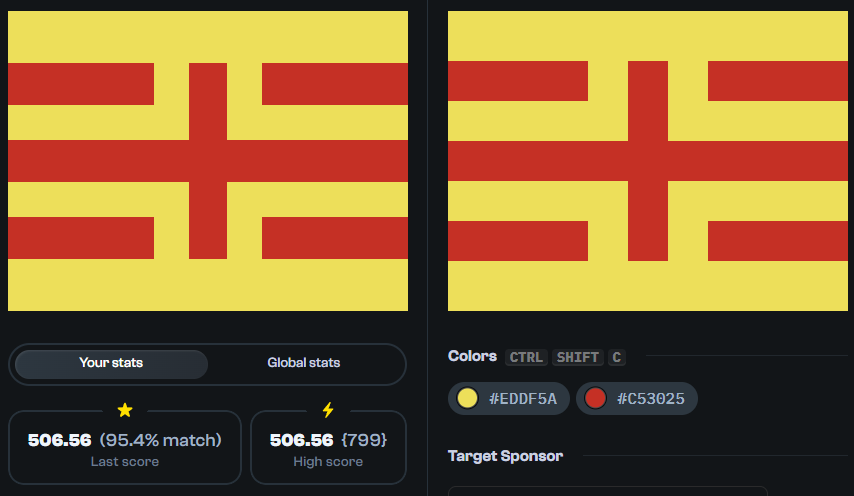
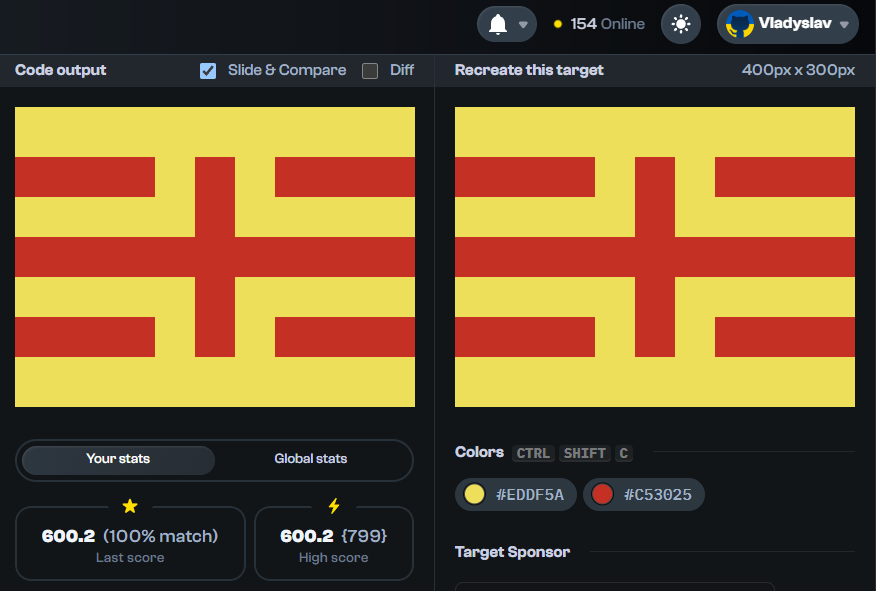
21.05 score 100%

diff --git a/daily-challenges/2025/21.05/styles.css b/daily-challenges/2025/21.05/styles.css
@@ -18,9 +18,9 @@
     width: 100%;
     height: 100%;
     background: #eddf5a;
-    grid-template-rows: 0.5fr 1.2fr 1.2fr 1.2fr 0.5fr;
-    grid-template-columns: 1fr 1fr 0.7fr 1fr 1fr;
-    gap: 35px;
+    grid-template-rows: 0.3fr 1.2fr 1.2fr 1.2fr 0.3fr;
+    grid-template-columns: 1fr 1fr 0.8fr 1fr 1fr;
+    gap: 40px;
 }
 
 .h1l {
@@ -60,5 +60,5 @@
 /*
 https://cssbattle.dev/play/DBzBme8qh4CaDBy9PrBC
 
-(95.4% match)
+600.2  (100% match)
 */
